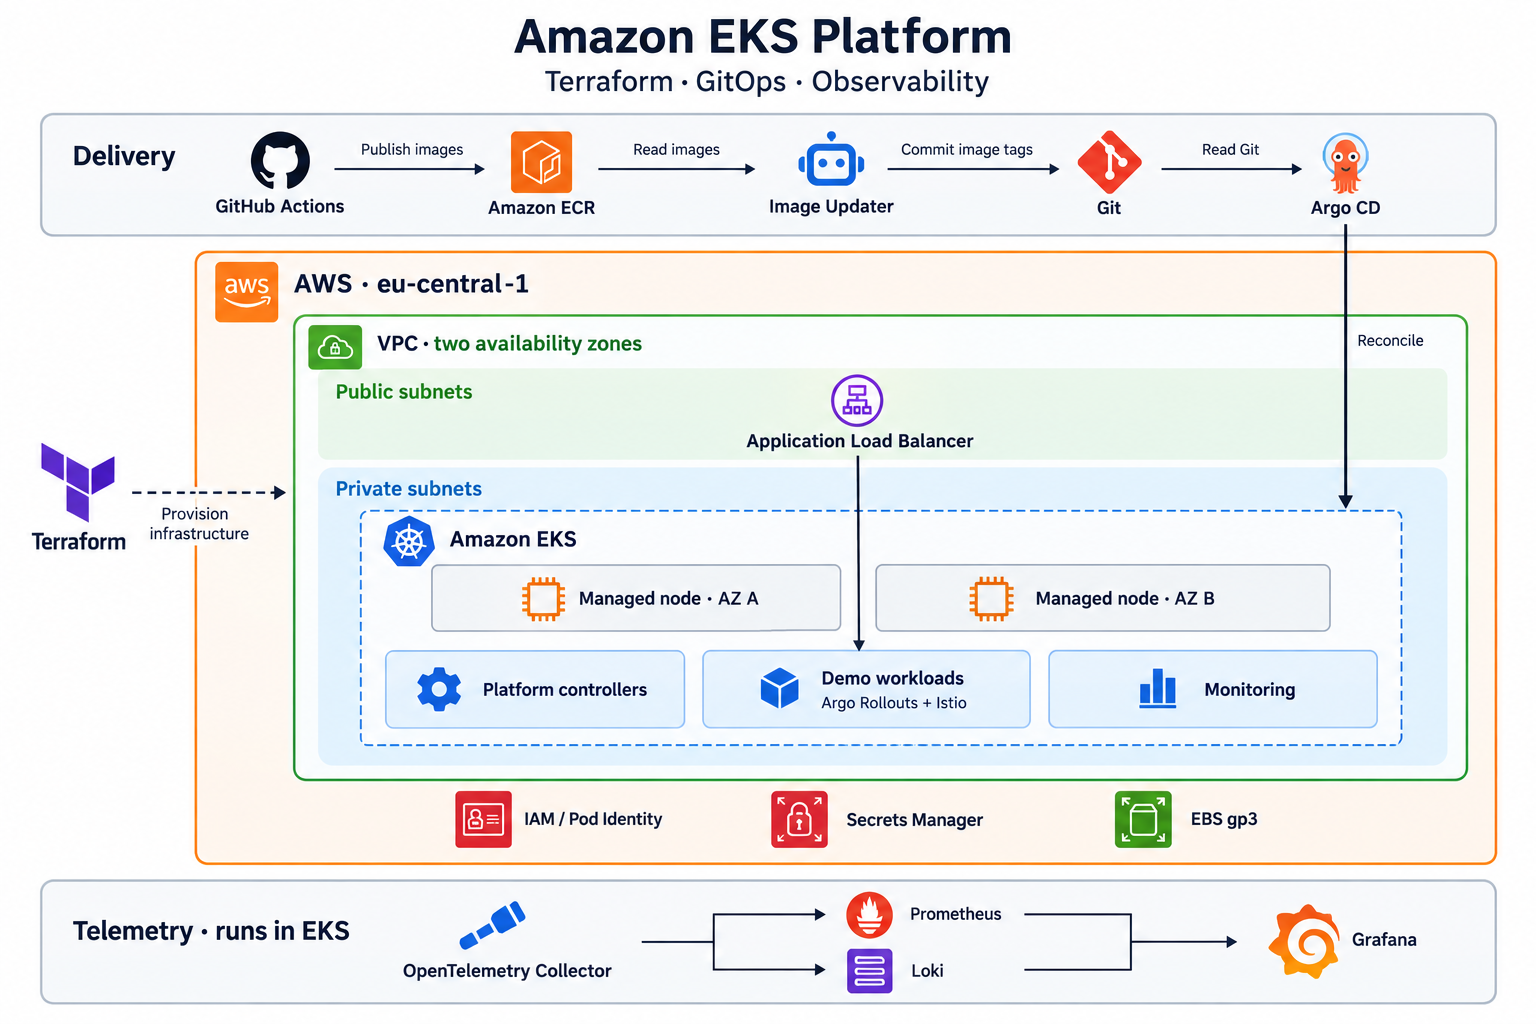
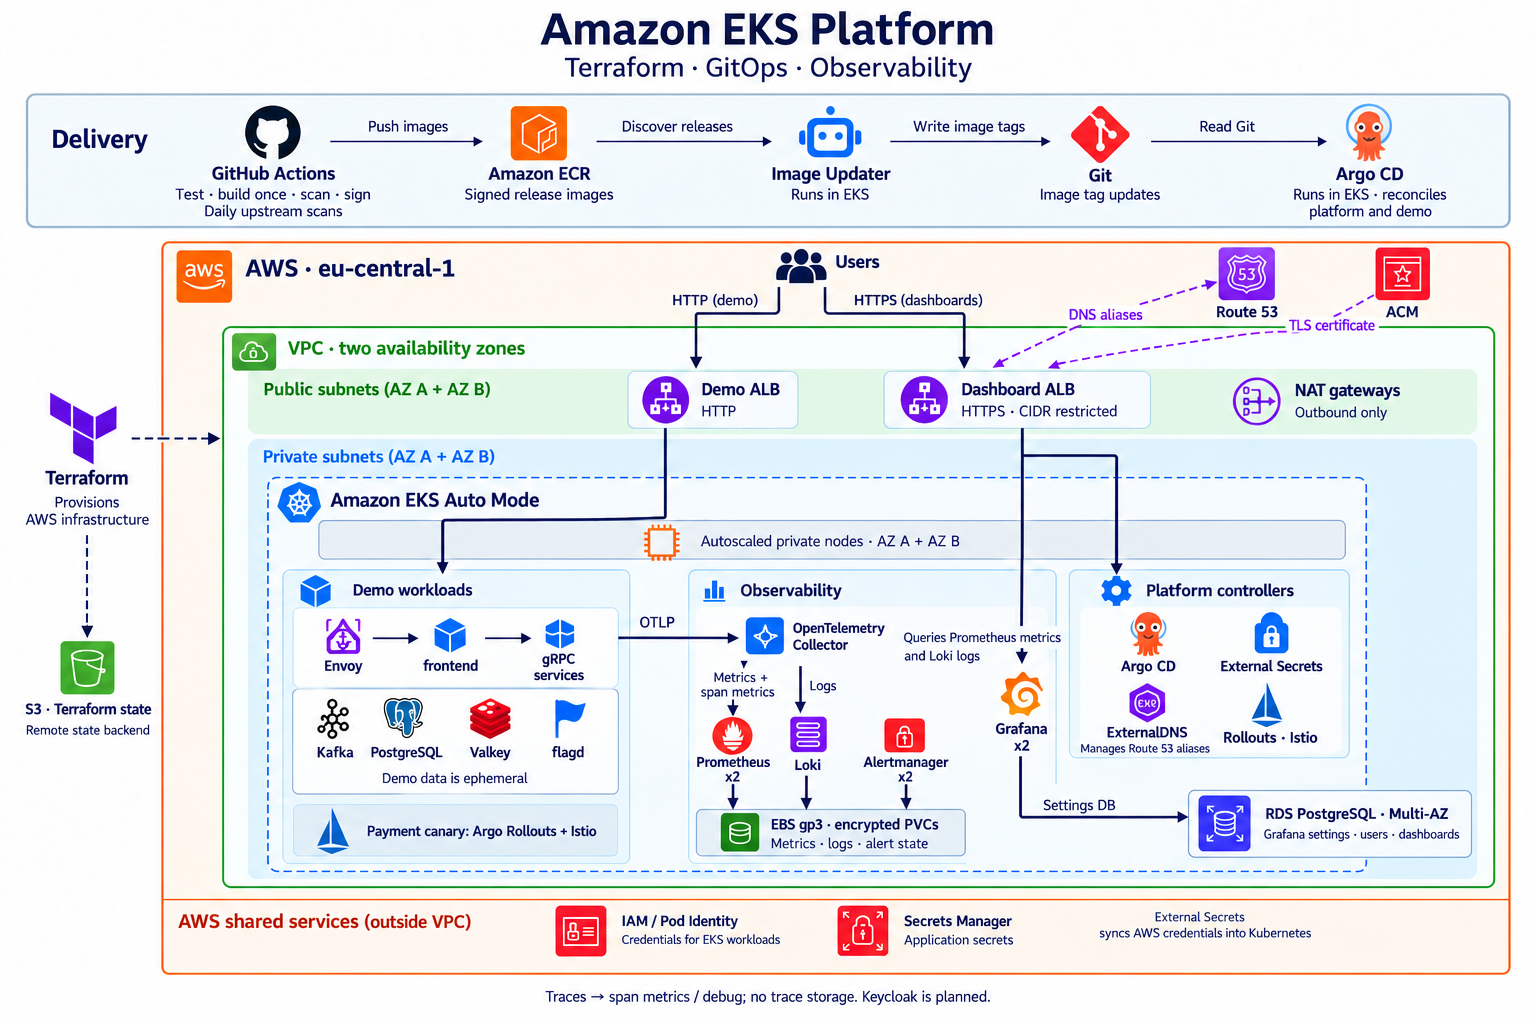
Add architecture image to README

Changed region(s): [[0.0, 0.0, 1.0, 1.0], [0.0, 0.125, 0.125, 0.2188]]

diff --git a/README.md b/README.md
@@ -1,3 +1,5 @@
+![Amazon EKS platform architecture: GitOps delivery, Auto Mode workloads, HTTPS dashboards and persistent monitoring](docs/architecture.png)
+
 # Amazon EKS Platform with Terraform and GitOps
 
 An AWS platform for running the OpenTelemetry demo and practicing automated
